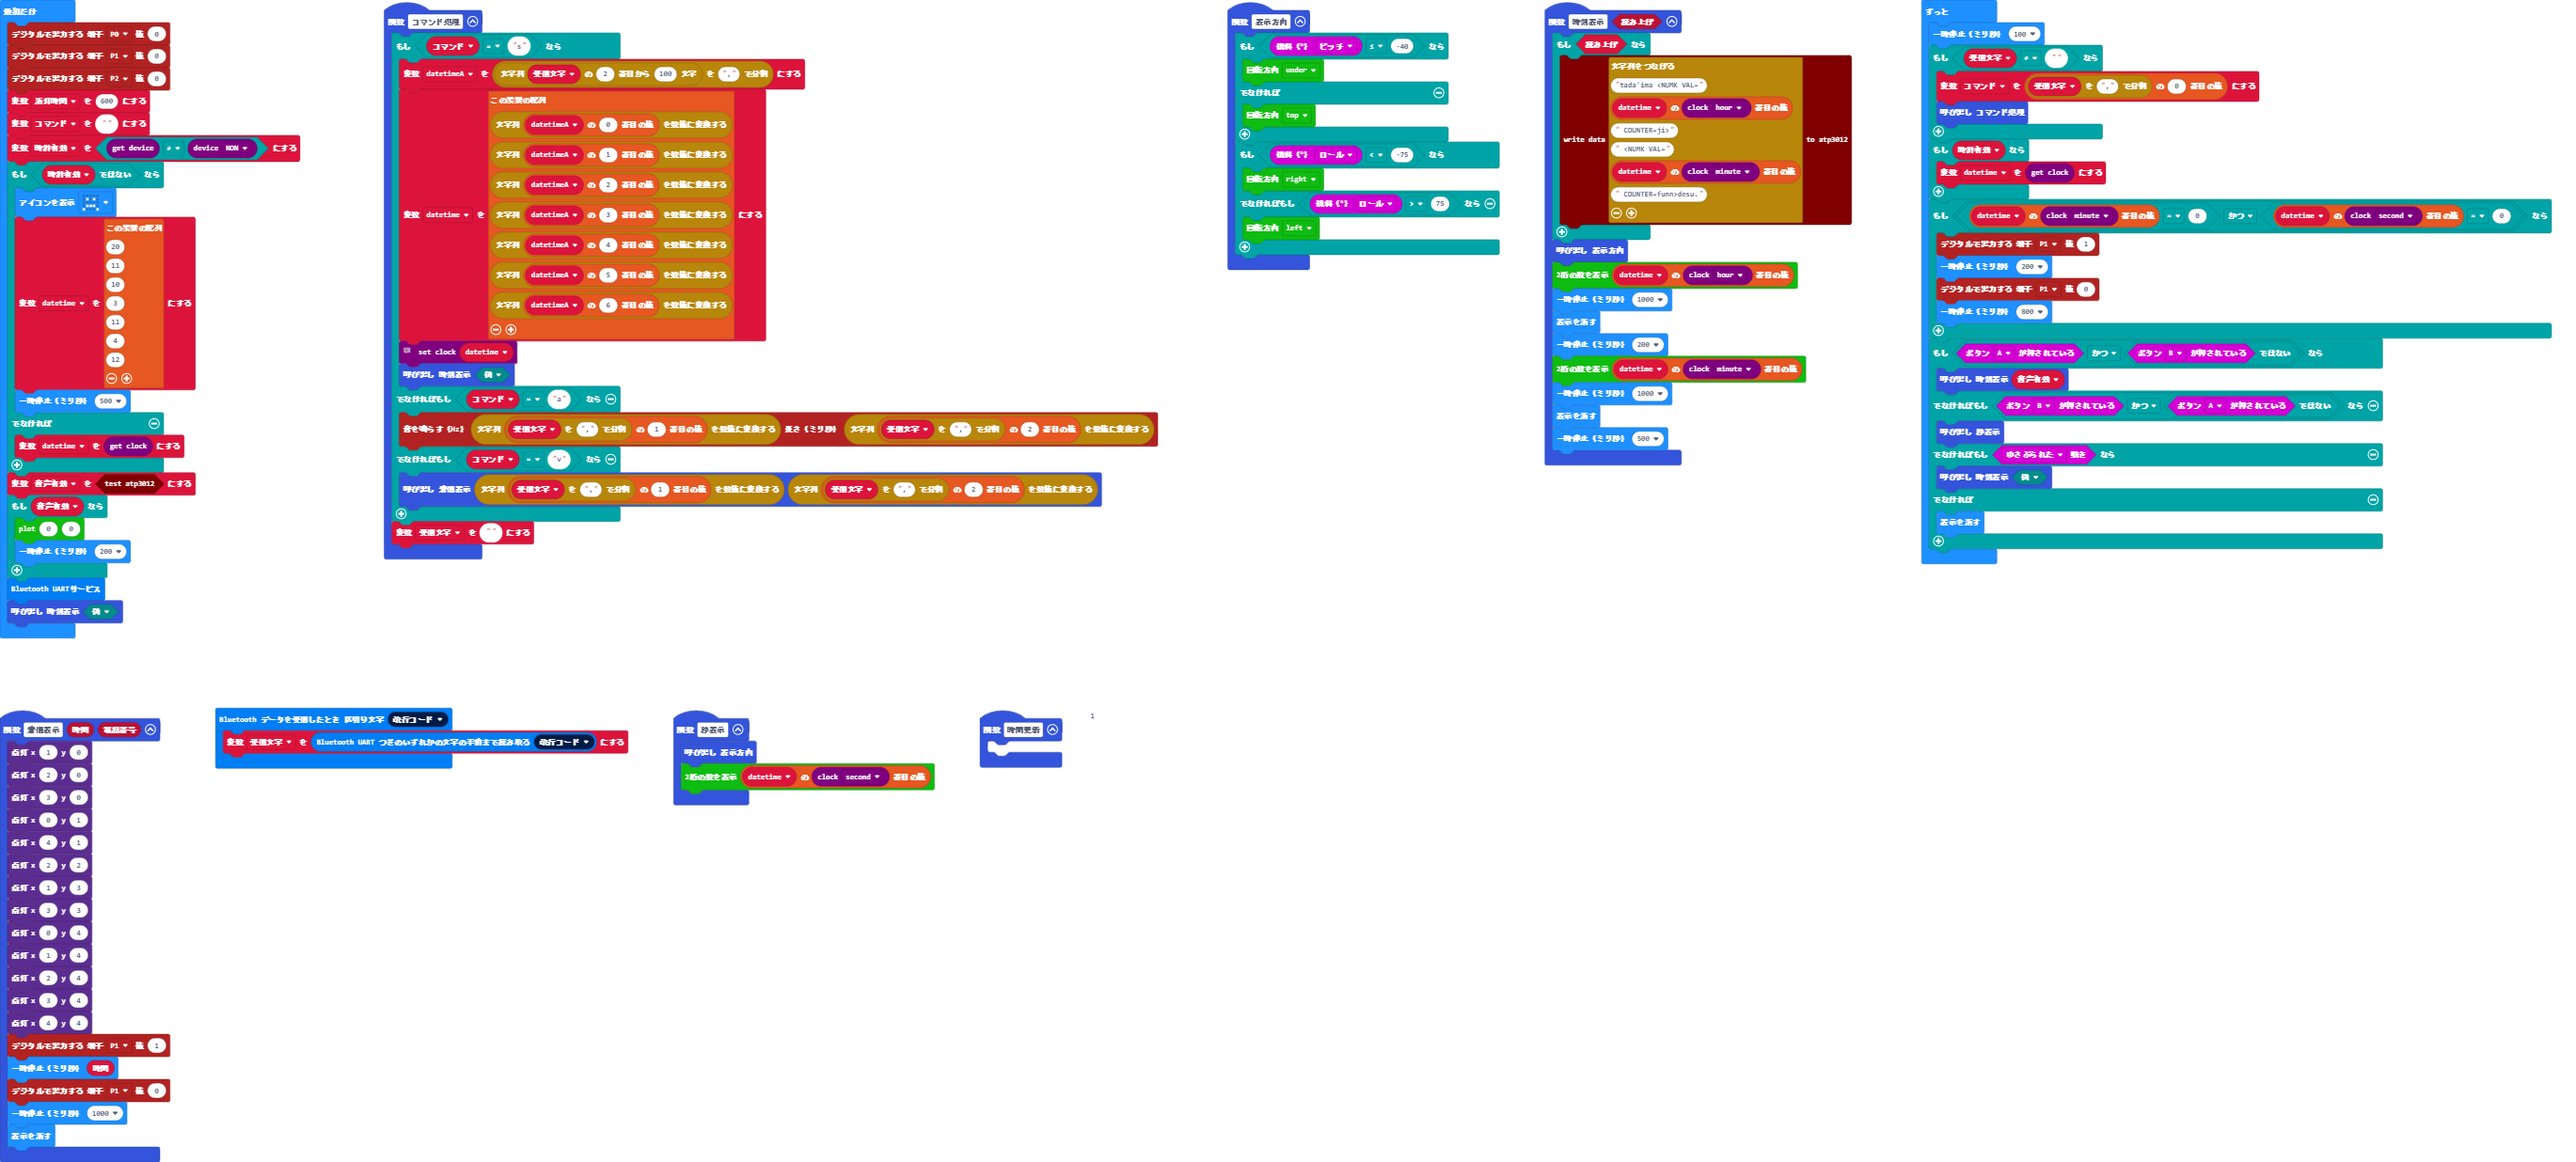
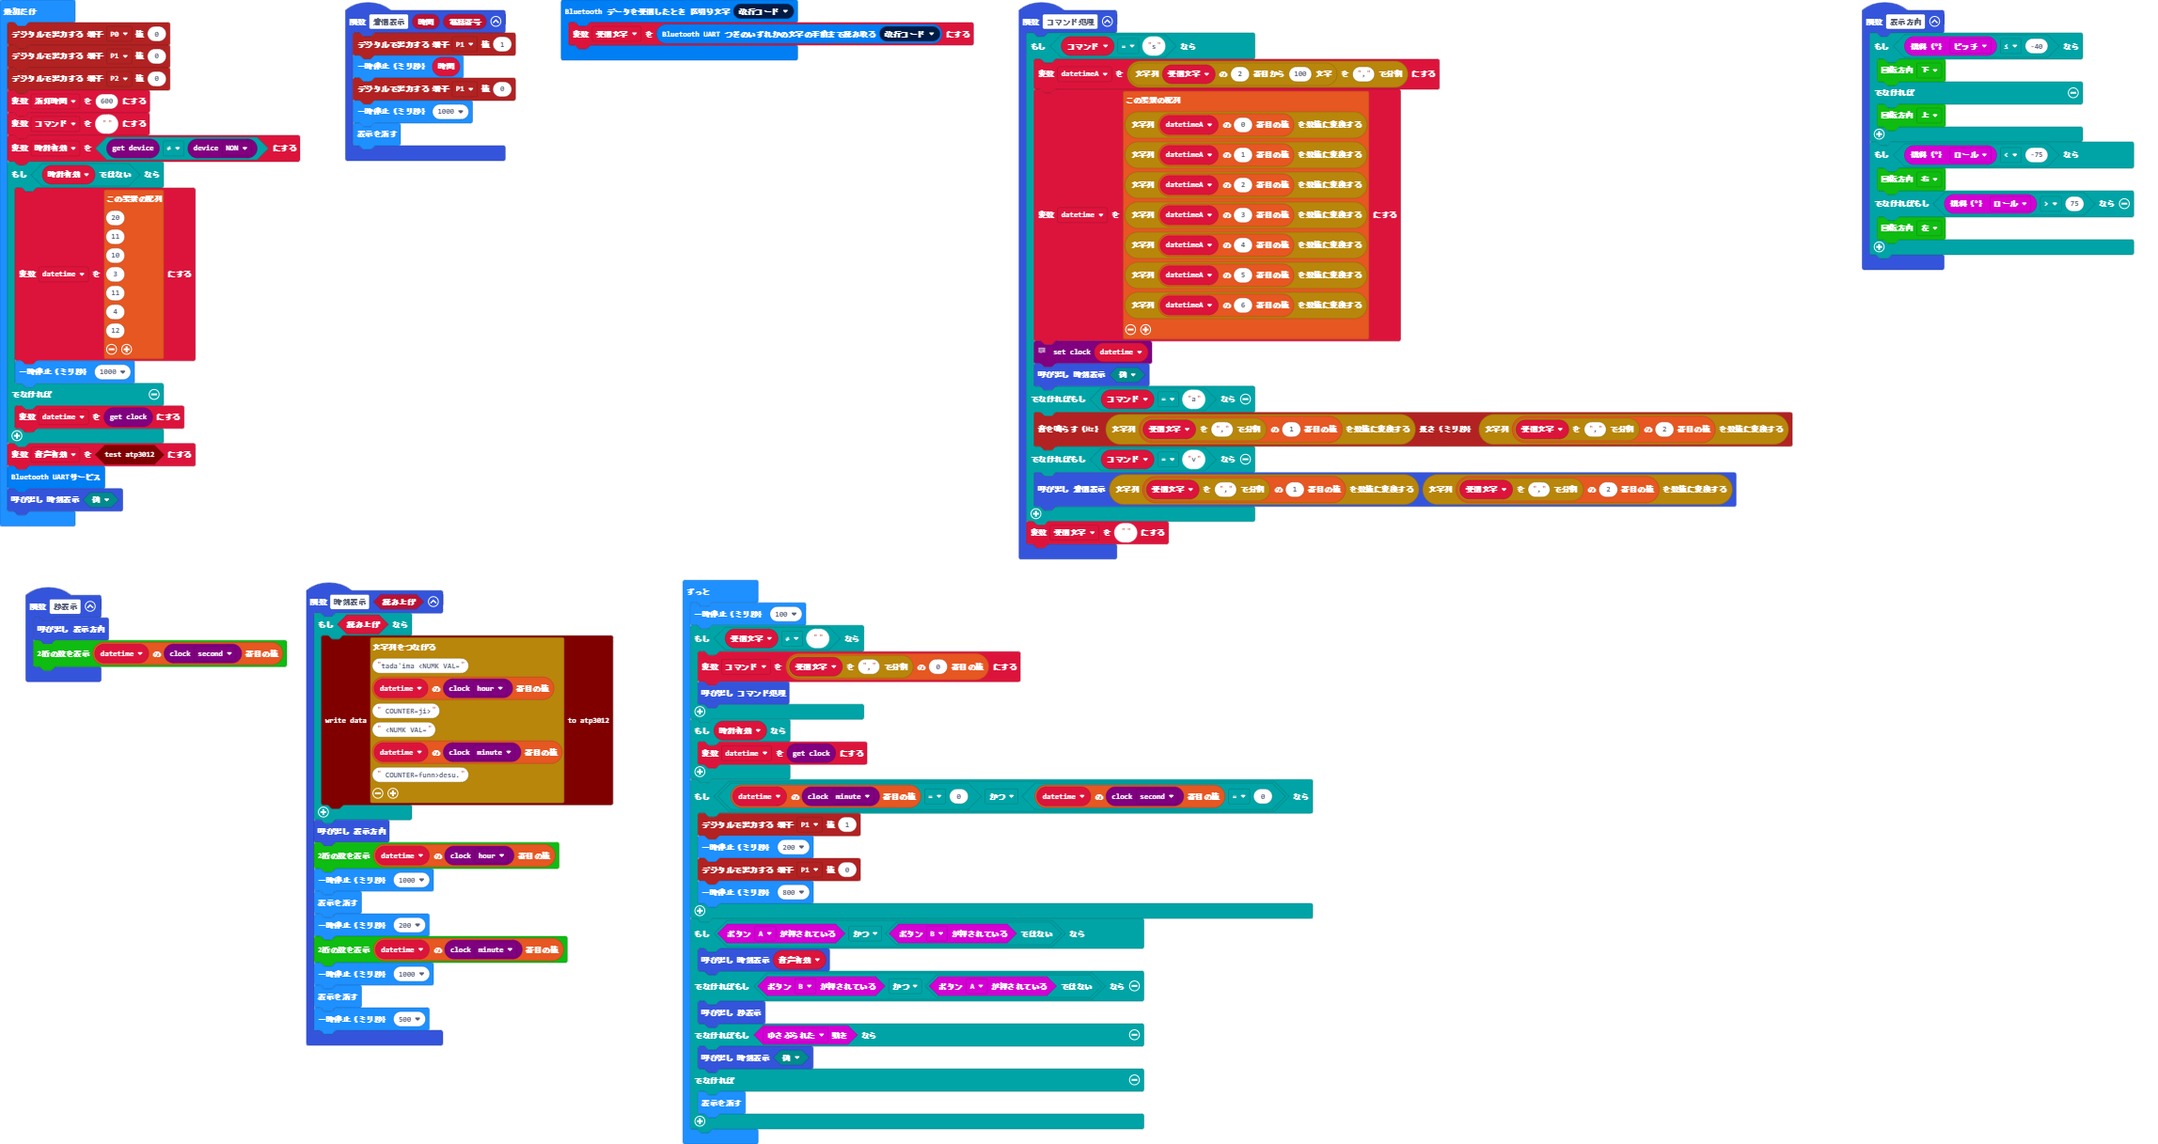
Update pxt.json, main.blocks, main.ts

diff --git a/main.ts b/main.ts
@@ -1,20 +1,4 @@
-function 時間更新 () {
-	
-}
 function 着信表示 (時間: number, 電話番号: number) {
-    led.plot(1, 0)
-    led.plot(2, 0)
-    led.plot(3, 0)
-    led.plot(0, 1)
-    led.plot(4, 1)
-    led.plot(2, 2)
-    led.plot(1, 3)
-    led.plot(3, 3)
-    led.plot(0, 4)
-    led.plot(1, 4)
-    led.plot(2, 4)
-    led.plot(3, 4)
-    led.plot(4, 4)
     pins.digitalWritePin(DigitalPin.P1, 1)
     basic.pause(時間)
     pins.digitalWritePin(DigitalPin.P1, 0)
@@ -79,17 +63,12 @@ let 消灯時間 = 600
 コマンド = ""
 let 時計有効 = rtc.getDevice() != rtc.getClockDevice(rtcType.NON)
 if (!(時計有効)) {
-    basic.showIcon(IconNames.Sad)
     datetime = [20, 11, 10, 3, 11, 4, 12]
-    basic.pause(500)
+    basic.pause(1000)
 } else {
     datetime = rtc.getClock()
 }
 let 音声有効 = atp3012.isAvalable()
-if (音声有効) {
-    watchfont.plot(0, 0)
-    basic.pause(200)
-}
 bluetooth.startUartService()
 時刻表示(false)
 basic.forever(function () {
